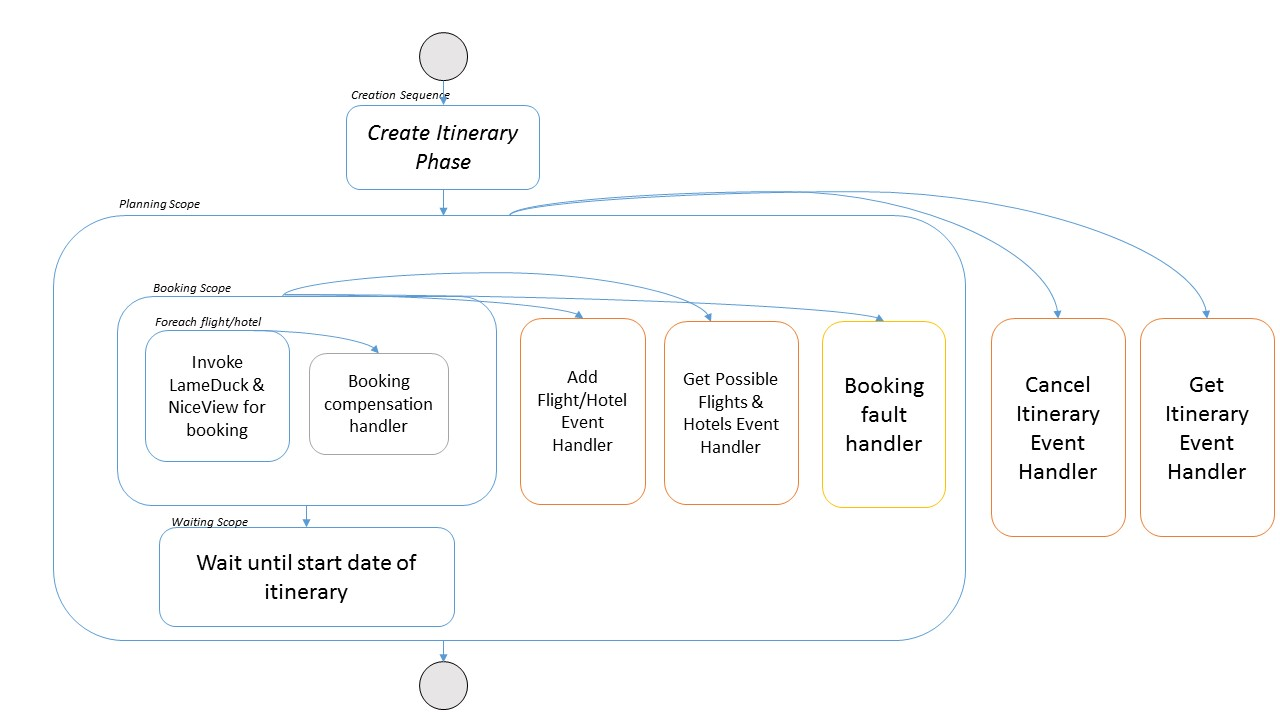
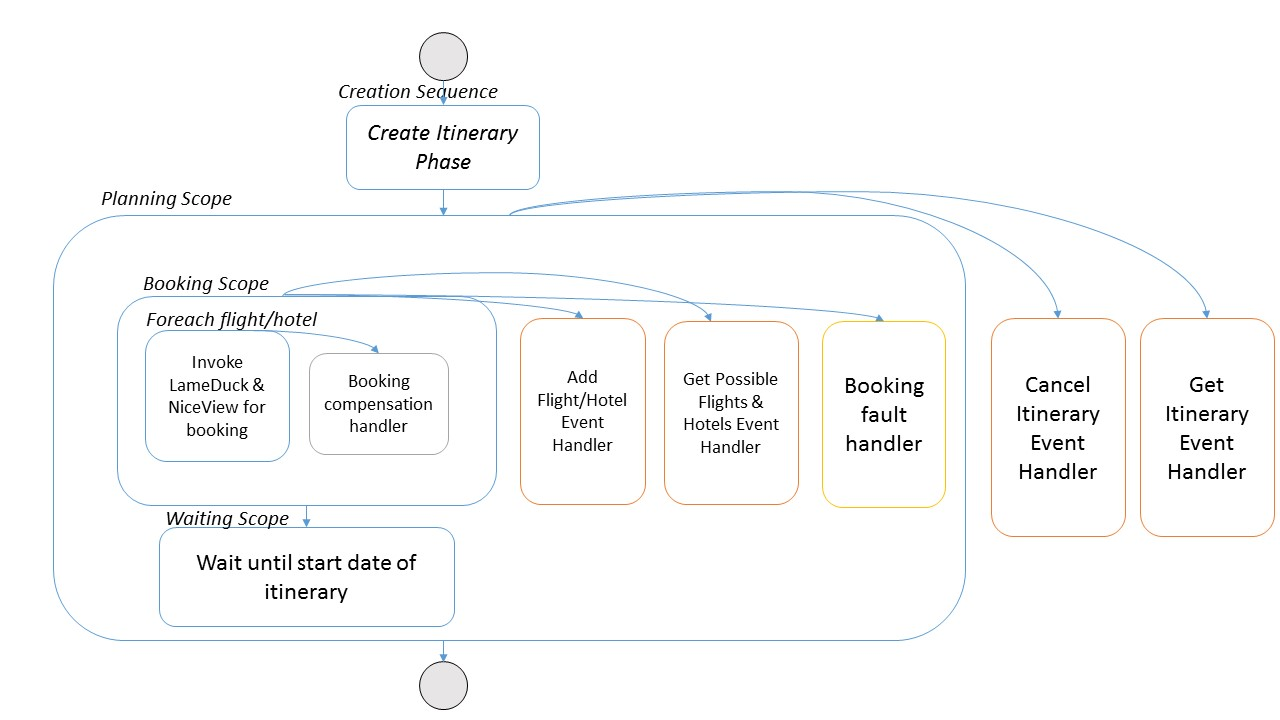
some latex files

diff --git a/Submission (latex)/3c.BPELWebService.tex b/Submission (latex)/3c.BPELWebService.tex
@@ -12,7 +12,7 @@ In the whole planning phase, the client can call \textit{getItineraryOperation} 
 
 \begin{figure}[H]
 \centering
-\includegraphics[width=0.6\textwidth]{images/bpel_abstract_impl.jpg}
+\includegraphics[width=\textwidth]{images/bpel_abstract_impl.jpg}
 \caption{Abstract representation of TravelGood BPEL implementation.} \label{fig:abstract-representation}
 \label{statediagram}
 \end{figure}
@@ -51,7 +51,7 @@ In case a client cancels a planning phase, a BPEL process replies with boolean t
 
 \begin{figure}[H]
 \centering
-\includegraphics[width=0.6\textwidth]{images/bpel_cancel_abstract_impl.jpg}
+\includegraphics[width=\textwidth]{images/bpel_cancel_abstract_impl.jpg}
 \caption{Abstract representation of TravelGood cancel itinerary event handler.} \label{fig:abstract-cancel}
 \label{statediagram}
 \end{figure}
